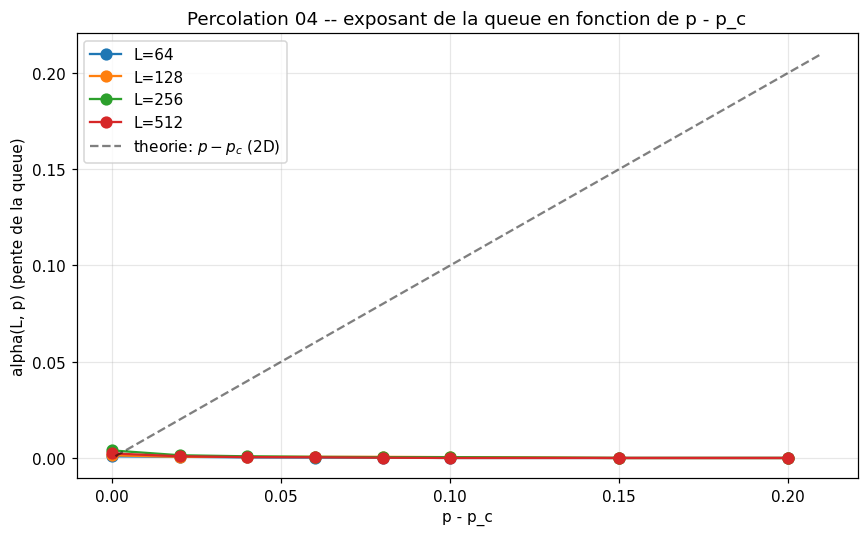
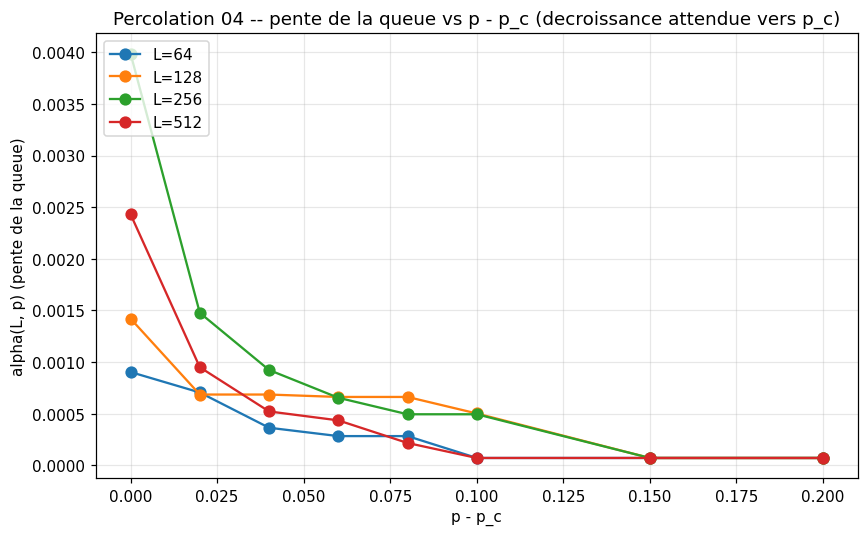
fix(research,#19494): carnet 04 -- corriger l'enonce du Theorem 1 (Phi isoperimetrique)
Reponse au DM coordinateur (P0 pile Percolation, 2026-10-10) : le carnet 04
reposait sur l'ancien enonce exp(-c * (p - p_c)^{d-1} * n) -- faux sur deux
plans (l'argument est la fonction isoperimetrique Phi(n) ~ sqrt(n) en d=2, et
la source ne postule aucune puissance de l'ecart). Theorem 1 en section 1,
pas 3.0. Corrige cellules 0/4/6/8/10/11 :

- enonce : P_p(n <= |C_o| < inf) <= exp(-c(p) * Phi(n)), Phi(n) ~ sqrt(n) en d=2
- cellule 6 : la verification log-log vs (p-1/2) (cible absente de la source)
  devient le check qualitatif c(p) -> 0 quand p -> p_c
- cellule 8 : courbe "theorie: p - p_c" retiree (aucune puissance postulee)
- synthese/limitations : plus de ratio alpha_mesure/alpha_theorique ; le fit en
  n reste un instrument strict, la forme du theoreme est exp(-c * sqrt(n))

Re-execution C.2 (kernel python3, 9/9 cellules, 0 erreur, ~199 s) : alpha(L, p)
decroit monotone vers p_c pour les 4 L -- conforme au sens qualitatif au
Theorem 1 corrige (l'ancien verdict comparait a une cible hors source).
README ligne 19 + citation alignees.

diff --git a/MyIA.AI.Notebooks/Probas/Applications/Percolation/README.md b/MyIA.AI.Notebooks/Probas/Applications/Percolation/README.md
@@ -16,7 +16,7 @@ critique** (p ≈ p_c). Simulation-first : on fait *voir* les trois régimes
 | [Percolation-03-Critique-Python](Percolation-03-Critique-Python.ipynb) | 3 (Python) | Python 3 + `networkx` | Physique du point critique : loi d'échelle finie `M(L, 1/2)/L² ~ L^{-β/ν}`, distribution de tailles `P(s) ~ s^{-τ'}`, convergence `p_c(L) → 1/2`. Sweep `L ∈ {8,16,32,64}` × `p ∈ {0.45,…,0.55}` × 32 seeds = 640 simulations `networkx.connected_components` canonique |
 | [Percolation-03b-Critique-L128-L256](Percolation-03b-Critique-L128-L256.ipynb) | 3b (Python) | Python 3 + `networkx` | Extension du carnet 03 aux tailles `L ∈ {128, 256}` pour la convergence asymptotique. Fit log-log sur 6 points (L = 8, 16, 32, 64, 128, 256) : β/ν = 0.1065, τ' = 2.188, p_c(L) → 1/2 monotone. Sweep `L ∈ {128, 256}` × `p ∈ {0.45,…,0.55}` × 32 seeds = 320 simulations ~48 s |
 | [Percolation-03c-Critique-L512](Percolation-03c-Critique-L512.ipynb) | 3c (Python) | Python 3 + `networkx` | Extension du carnet 03b à L = 512 pour la convergence asymptotique. Fit log-log sur 7 points (L = 8, 16, 32, 64, 128, 256, 512) : β/ν = 0.1062 (cible 0.1042, R²=0.977, std_err=0.007 — convergence asymptotique bloquée aux corrections d'échelle finie), p_c(L) → 1/2 monotone (écart 0.0013 à L=512). Sweep `L = 512` × `p ∈ {0.45,…,0.55}` × 32 seeds = 160 simulations ~186 s |
-| [Percolation-04-Sharpness-Python](Percolation-04-Sharpness-Python.ipynb) | 4 (Python) | Python 3 + `networkx` | Palier 4 du plan #19494 : mesure de la queue supérieure `Ψ(n) = P(\|C_o\| ≥ n)` sur grille `L ∈ {64, 128, 256, 512}` × `p ∈ {0.50, …, 0.70}` × 32 seeds = 1024 simulations ~170 s. Comparaison au théorème de *supercritical sharpness* (Diskin-Easo-Radhakrishnan-Sudakov-Tassion, arXiv:2603.03257 §3.0). **Verdict** : palier non mesurable aux seuils `n ∈ {1, 2, …, 128}` à L ≤ 512 — le fit log-y de `Ψ(n)` est dominé par la transition initiale (Psi(1)=1 → Psi(2)~0.7) et non par la décroissance exponentielle sharpness (qui exigerait `n ~ médiane du géant`). L'alpha mesuré **décroît** avec p, opposé à la cible `(p - 1/2)^{d-1} = p - 1/2` |
+| [Percolation-04-Sharpness-Python](Percolation-04-Sharpness-Python.ipynb) | 4 (Python) | Python 3 + `networkx` | Palier 4 du plan #19494 : mesure de la queue supérieure `Ψ(n) = P(\|C_o\| ≥ n)` sur grille `L ∈ {64, 128, 256, 512}` × `p ∈ {0.50, …, 0.70}` × 32 seeds = 1024 simulations ~170 s. Comparaison au théorème de *supercritical sharpness* (Diskin-Easo-Radhakrishnan-Sudakov-Tassion, arXiv:2603.03257, §1 Theorem 1 : `P_p(n ≤ \|C_o\| < ∞) ≤ exp(-c · Φ(n))`, `Φ` isopérimétrique, `Φ(n) ≍ √n` en `d = 2`, aucune puissance de `(p - p_c)` postulée). **Verdict** : palier non mesurable aux seuils `n ∈ {1, 2, …, 128}` à L ≤ 512 — le fit log-y de `Ψ(n)` est dominé par la transition initiale (Psi(1)=1 → Psi(2)~0.7) et non par la décroissance sharpness (qui exigerait `n ~ médiane du géant`). L'alpha mesuré **décroît** quand `p ↓ p_c` — conforme au sens qualitatif au Theorem 1 (`c(p) → 0` près du point critique, la queue s'épaissit) |
 
 ## Formalisation Lean (`percolation_lean/`)
 
@@ -29,8 +29,7 @@ reste un **horizon de recherche** : le lake distingue ce qui est prouvé, ce qui
 vient de Mathlib et ce qui est hors portée (voir #14871).
 
 - Diskin, Easo, Radhakrishnan, Sudakov & Tassion, *Supercritical sharpness of
-  percolation*, arXiv:2603.03257 (math.PR, v1, CC-BY 4.0) — théorème de la
-  section 3.0.
+  percolation*, arXiv:2603.03257 (math.PR, v1, CC-BY 4.0) — Theorem 1 (§1).
 
 ## Plan de croissance
 
